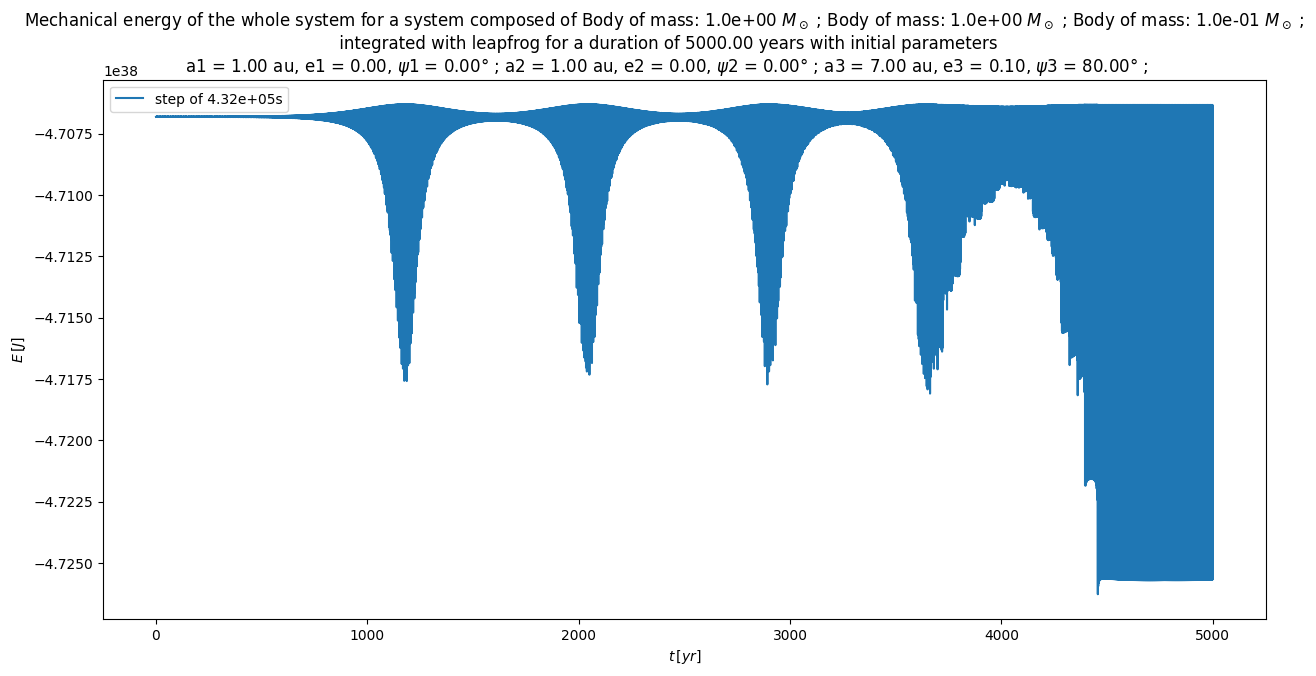
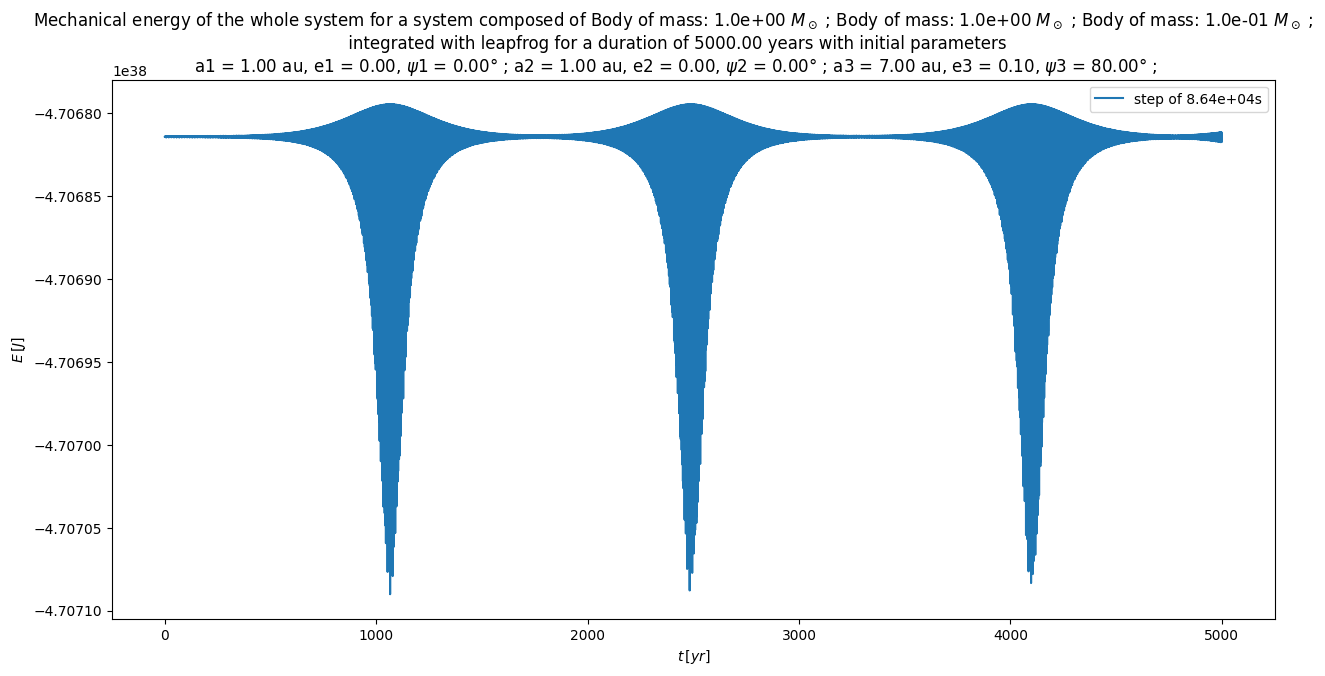
Clean up and get actual results

diff --git a/main.py b/main.py
@@ -27,7 +27,7 @@ def main():
     v = np.array([v1, v2, v3],dtype=np.longdouble)
 
     #integration parameters
-    duration, step = 5000*yr, np.longdouble(5./1.*86400.) #integration time and step in seconds
+    duration, step = 5000*yr, np.longdouble(1./1.*86400.) #integration time and step in seconds
     integrator = "leapfrog"
     n_bodies = 3
     display = False
